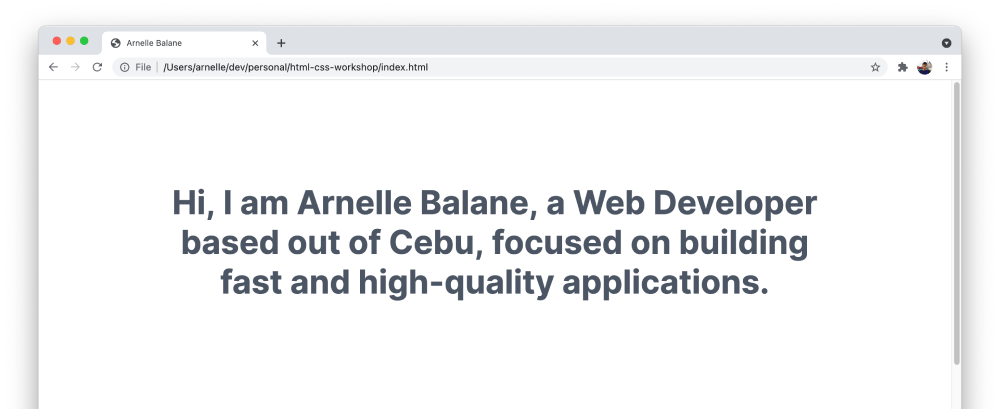
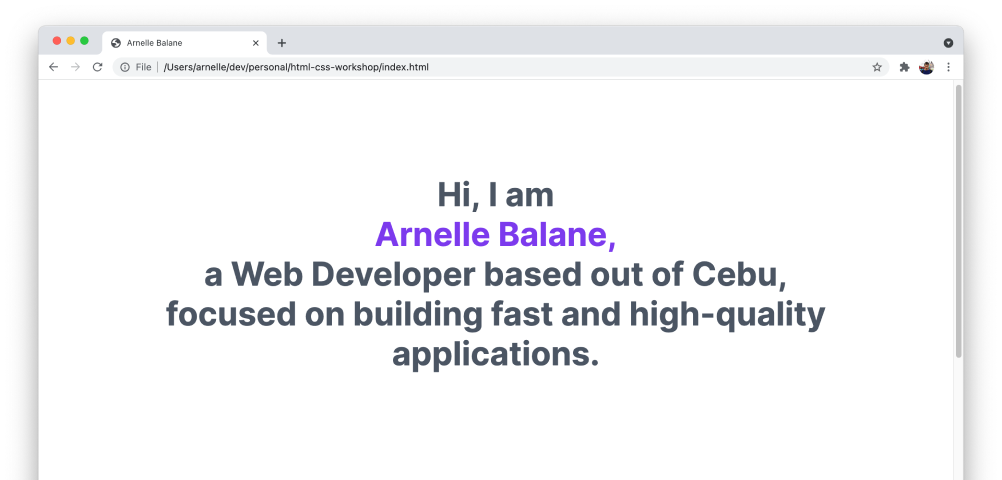
Add page about block-level and inline elements

diff --git a/docs/src/.vuepress/config.js b/docs/src/.vuepress/config.js
@@ -68,7 +68,8 @@ module.exports = {
           '/css/introducing-devtools',
           '/css/using-custom-fonts',
           '/css/the-box-model',
-          '/css/styling-our-page-boxes'
+          '/css/styling-our-page-boxes',
+          '/css/block-and-inline-elements'
         ]
       }
     ]

diff --git a/docs/src/css/block-and-inline-elements.md b/docs/src/css/block-and-inline-elements.md
@@ -1,0 +1,158 @@
+# Block and Inline Elements
+
+> Author's note: This is supposed to be a topic under the HTML section, but I wanted us to learn a bit of CSS first before we discuss this, that's why it's here. Please excuse this little disorganization. Let's carry on 😂
+
+In HTML, elements can either be a **block-level element** or **inline element** depending on how they flow on the page.
+
+## Block-Level Elements
+
+Block-level elements have the following characteristics:
+
+- They take up as much horizontal space as possible by default
+- They start a new line on the page
+- They stack below each other down the page
+- They may contain inline elements or other block-level elements
+
+The elements we've used so far in this workshop have all been block-level elements, and they also have the above characteristics.
+
+- Before we added our custom styling to our page, the headings, paragraphs, and other elements spanned the entire width of our page
+- Each heading and paragraph started on a new line, and are stacked below each other
+
+Here's a [list of block-level elements](https://developer.mozilla.org/en-US/docs/Web/HTML/Block-level_elements#elements).
+
+## Inline Elements
+
+Inline elements have the following characteristics:
+
+- They only occupy just enough space to contain the element contents
+- They don't force content to start in a new line
+- They may only contain data or other inline elements
+  - The only exception to this is the `<a>` element which we use to create links. Links can be wrapped around block-level elements. We will learn about links in a later lesson.
+- They are not affected by width, height, and vertical margin styles
+
+Here's a [list of inline elements](https://developer.mozilla.org/en-US/docs/Web/HTML/Inline_elements#list_of_inline_elements).
+
+## Updating Our HTML Code
+
+Let's implement some more changes to our HTML page based on our [design reference](/getting-started/personal-portfolio#design-reference) using block-level and inline elements. Based on the **03 - Block and Inline** page in Figma, we want to add these changes:
+
+- Our name in the intro section needs to be in its own line, with a different color
+- In the **About me** section, let's emphasize some text by making them bold
+- In each work experience item, only the job title should be in bold
+
+### Intro section changes
+
+In order to put our name into its own line, we need to wrap it inside a block-level element, like a `<div>`. Edit this content in our `index.html` file:
+
+```html
+<h1>
+  Hi, I am
+  <div>Arnelle Balane,</div>
+  a Web Developer based out of Cebu, focused on building fast and high-quality applications.
+</h1>
+```
+
+Then add the corresponding styles to `index.css`:
+
+```css
+h1 div {
+  margin: 0;
+  color: #7c3aed;
+}
+```
+
+![Styled intro section](./images/style-intro-section.png)
+
+### About me section changes
+
+Let's change any text in our **About me** section to be displayed in bold using the [`<strong>`](https://developer.mozilla.org/en-US/docs/Web/HTML/Element/strong) element.
+
+```html
+<p>
+  I am currently working as a Frontend Technical Lead at <strong>Newlogic</strong>, focused on building fast and
+  high-quality Web applications.
+</p>
+```
+
+![Styled about me section](./images/style-about-section.png)
+
+### Work experience item changes
+
+For the work experience titles, we are using the `<h3>` element which is already in bold by default. Let's make it not bold first by adding this in `index.css`:
+
+```css
+h3 {
+  font-weight: normal;
+}
+```
+
+And then wrapping the job title part of the work experience inside the `<strong>` element in `index.html`:
+
+```html
+<article>
+  <h3><strong>Frontend Technical Lead,</strong> Newlogic</h3>
+  <p>February 2019 - Present</p>
+  <p>
+    Lead frontend and backend developers in developing Web and mobile applications, including requirements gathering,
+    proposing solutions, creating design documents and performing code reviews.
+  </p>
+</article>
+
+<article>
+  <h3><strong>Web Developer,</strong> Channelfix</h3>
+  <p>June 2015 - January 2019</p>
+  <p>Implemented and structured the core reusable JavaScript modules for an online video tournament platform.</p>
+</article>
+
+<article>
+  <h3><strong>Lecturer,</strong> University of the Philippines Cebu</h3>
+  <p>January 2017 - May 2017</p>
+  <p>Taught lectures and handled laboratories for Web Engineering and Data Structures classes.</p>
+</article>
+```
+
+![Styled work experience title](./images/style-work-experience-title.png)
+
+## Changing Levels
+
+HTML elements are either block-level or inline by default. However, it is possible to force an element to be block-level or inline using the CSS [`display`](https://developer.mozilla.org/en-US/docs/Web/CSS/display) property.
+
+We are using a `<div>` to place our name in the intro section into its own line. Let's change it into a [`<span>`](https://developer.mozilla.org/en-US/docs/Web/HTML/Element/span) element which is an inline element by default:
+
+```html
+<h1>
+  Hi, I am <span>Arnelle Balane,</span> a Web Developer based out of Cebu, focused on building fast and high-quality
+  applications.
+</h1>
+```
+
+Then replace our styles for `h1 div` to instead select `h1 span`, and then make it a block-level element:
+
+```css
+h1 span {
+  display: block;
+  color: #7c3aed;
+}
+```
+
+This gives us the exact same result compared to before we made any changes.
+
+We can also set `display: inline;` to any element's styles to make it an inline element.
+
+## Inline-Block
+
+We learned earlier that inline elements are not affected by width, height, and vertical margin styles. If we want to keep an element inline and still be able to style its with, height, or vertical margins, we can apply this CSS to it:
+
+```css
+strong {
+  display: inline-block;
+}
+```
+
+We will use this on our page in a later lesson.
+
+## Additional Links
+
+- [Block-level elements](https://developer.mozilla.org/en-US/docs/Web/HTML/Block-level_elements)
+- [Inline elements](https://developer.mozilla.org/en-US/docs/Web/HTML/Inline_elements)
+- [Block and Inline Elements](http://web.simmons.edu/~grovesd/comm244/notes/week4/block-inline)

diff --git a/docs/src/html/grouping-related-elements.md b/docs/src/html/grouping-related-elements.md
@@ -4,7 +4,7 @@ So far, all the headings and paragraphs in our HTML page are all directly inside
 
 Let's group the elements that contain related content inside the [`<div>`](https://developer.mozilla.org/en-US/docs/Web/HTML/Element/div) element.
 
-#### About me contents
+### About me contents
 
 ```html
 <div>
@@ -25,7 +25,7 @@ Let's group the elements that contain related content inside the [`<div>`](https
 </div>
 ```
 
-#### Work experience contents
+### Work experience contents
 
 In addition to grouping the entire work experience section inside a `<div>`, let's also group each individual work experience content inside a `<div>`.
 
@@ -56,7 +56,7 @@ In addition to grouping the entire work experience section inside a `<div>`, let
 </div>
 ```
 
-#### Get in touch contents
+### Get in touch contents
 
 ```html
 <div>
@@ -67,7 +67,7 @@ In addition to grouping the entire work experience section inside a `<div>`, let
 </div>
 ```
 
-#### Remaining contents
+### Remaining contents
 
 Although they only contain one element, let's also place the intro text and the "made by" text inside their own `<div>`.
 
@@ -91,7 +91,7 @@ The `<div>` element is a generic container for content. It has no effect on the 
 
 Just like with text where we can mark them as headings or paragraphs, we can also group elements in a more meaningful way using elements that have inherint meanings. We call these elements that give meaning to the content the represent [**semantic elements**](https://developer.mozilla.org/en-US/docs/Glossary/Semantics#semantics_in_html). The headings and paragraph elements that we learned previously are examples of such elements.
 
-#### `<section>` element
+### `<section>` element
 
 One semantic element that we can use for grouping content is the [`<section>`](https://developer.mozilla.org/en-US/docs/Web/HTML/Element/article) element. They represent a standalone section of a document, and should have a heading inside it.
 
@@ -122,7 +122,7 @@ Let's place the **About me**, **Work experience**, and **Get in touch** sections
 </section>
 ```
 
-#### `<article>` element
+### `<article>` element
 
 Another semantic element for grouping content is the [`<article>`](https://developer.mozilla.org/en-US/docs/Web/HTML/Element/article) element, which we will use to contain each individual work experience.
 
@@ -146,7 +146,7 @@ Another semantic element for grouping content is the [`<article>`](https://devel
 </article>
 ```
 
-#### `<footer>` element
+### `<footer>` element
 
 One more semantic element for grouping content that we will use in our page is the [`<footer>`](https://developer.mozilla.org/en-US/docs/Web/HTML/Element/footer) element, which is typically used to contain information about the author, copyright data, or links to related pages.
 

diff --git a/docs/src/css/README.md b/docs/src/css/README.md
@@ -41,7 +41,7 @@ div h1 {
 
 We start with the selector for the parent element (`div`), followed by a space, then the selector for the element that we want to style (`h1`). With this, other `<h1>` elements that are not inside a `<div>` will not be affected by this CSS rule.
 
-In most Web pages, elements like `<h1>` or `<p>` can be used multiple times in different contexts that require them to be styled differently, so knowing how to select only specific instances of `<h1>` or `<p>` is very helpful. Later, we will see other ways to do achieve this.
+In most Web pages, elements like `<h1>` or `<p>` can be used multiple times in different contexts that require them to be styled differently, so knowing how to select only specific instances of `<h1>` or `<p>` is very helpful. Later, we will see other ways to achieve this.
 
 ## Additional Links
 
